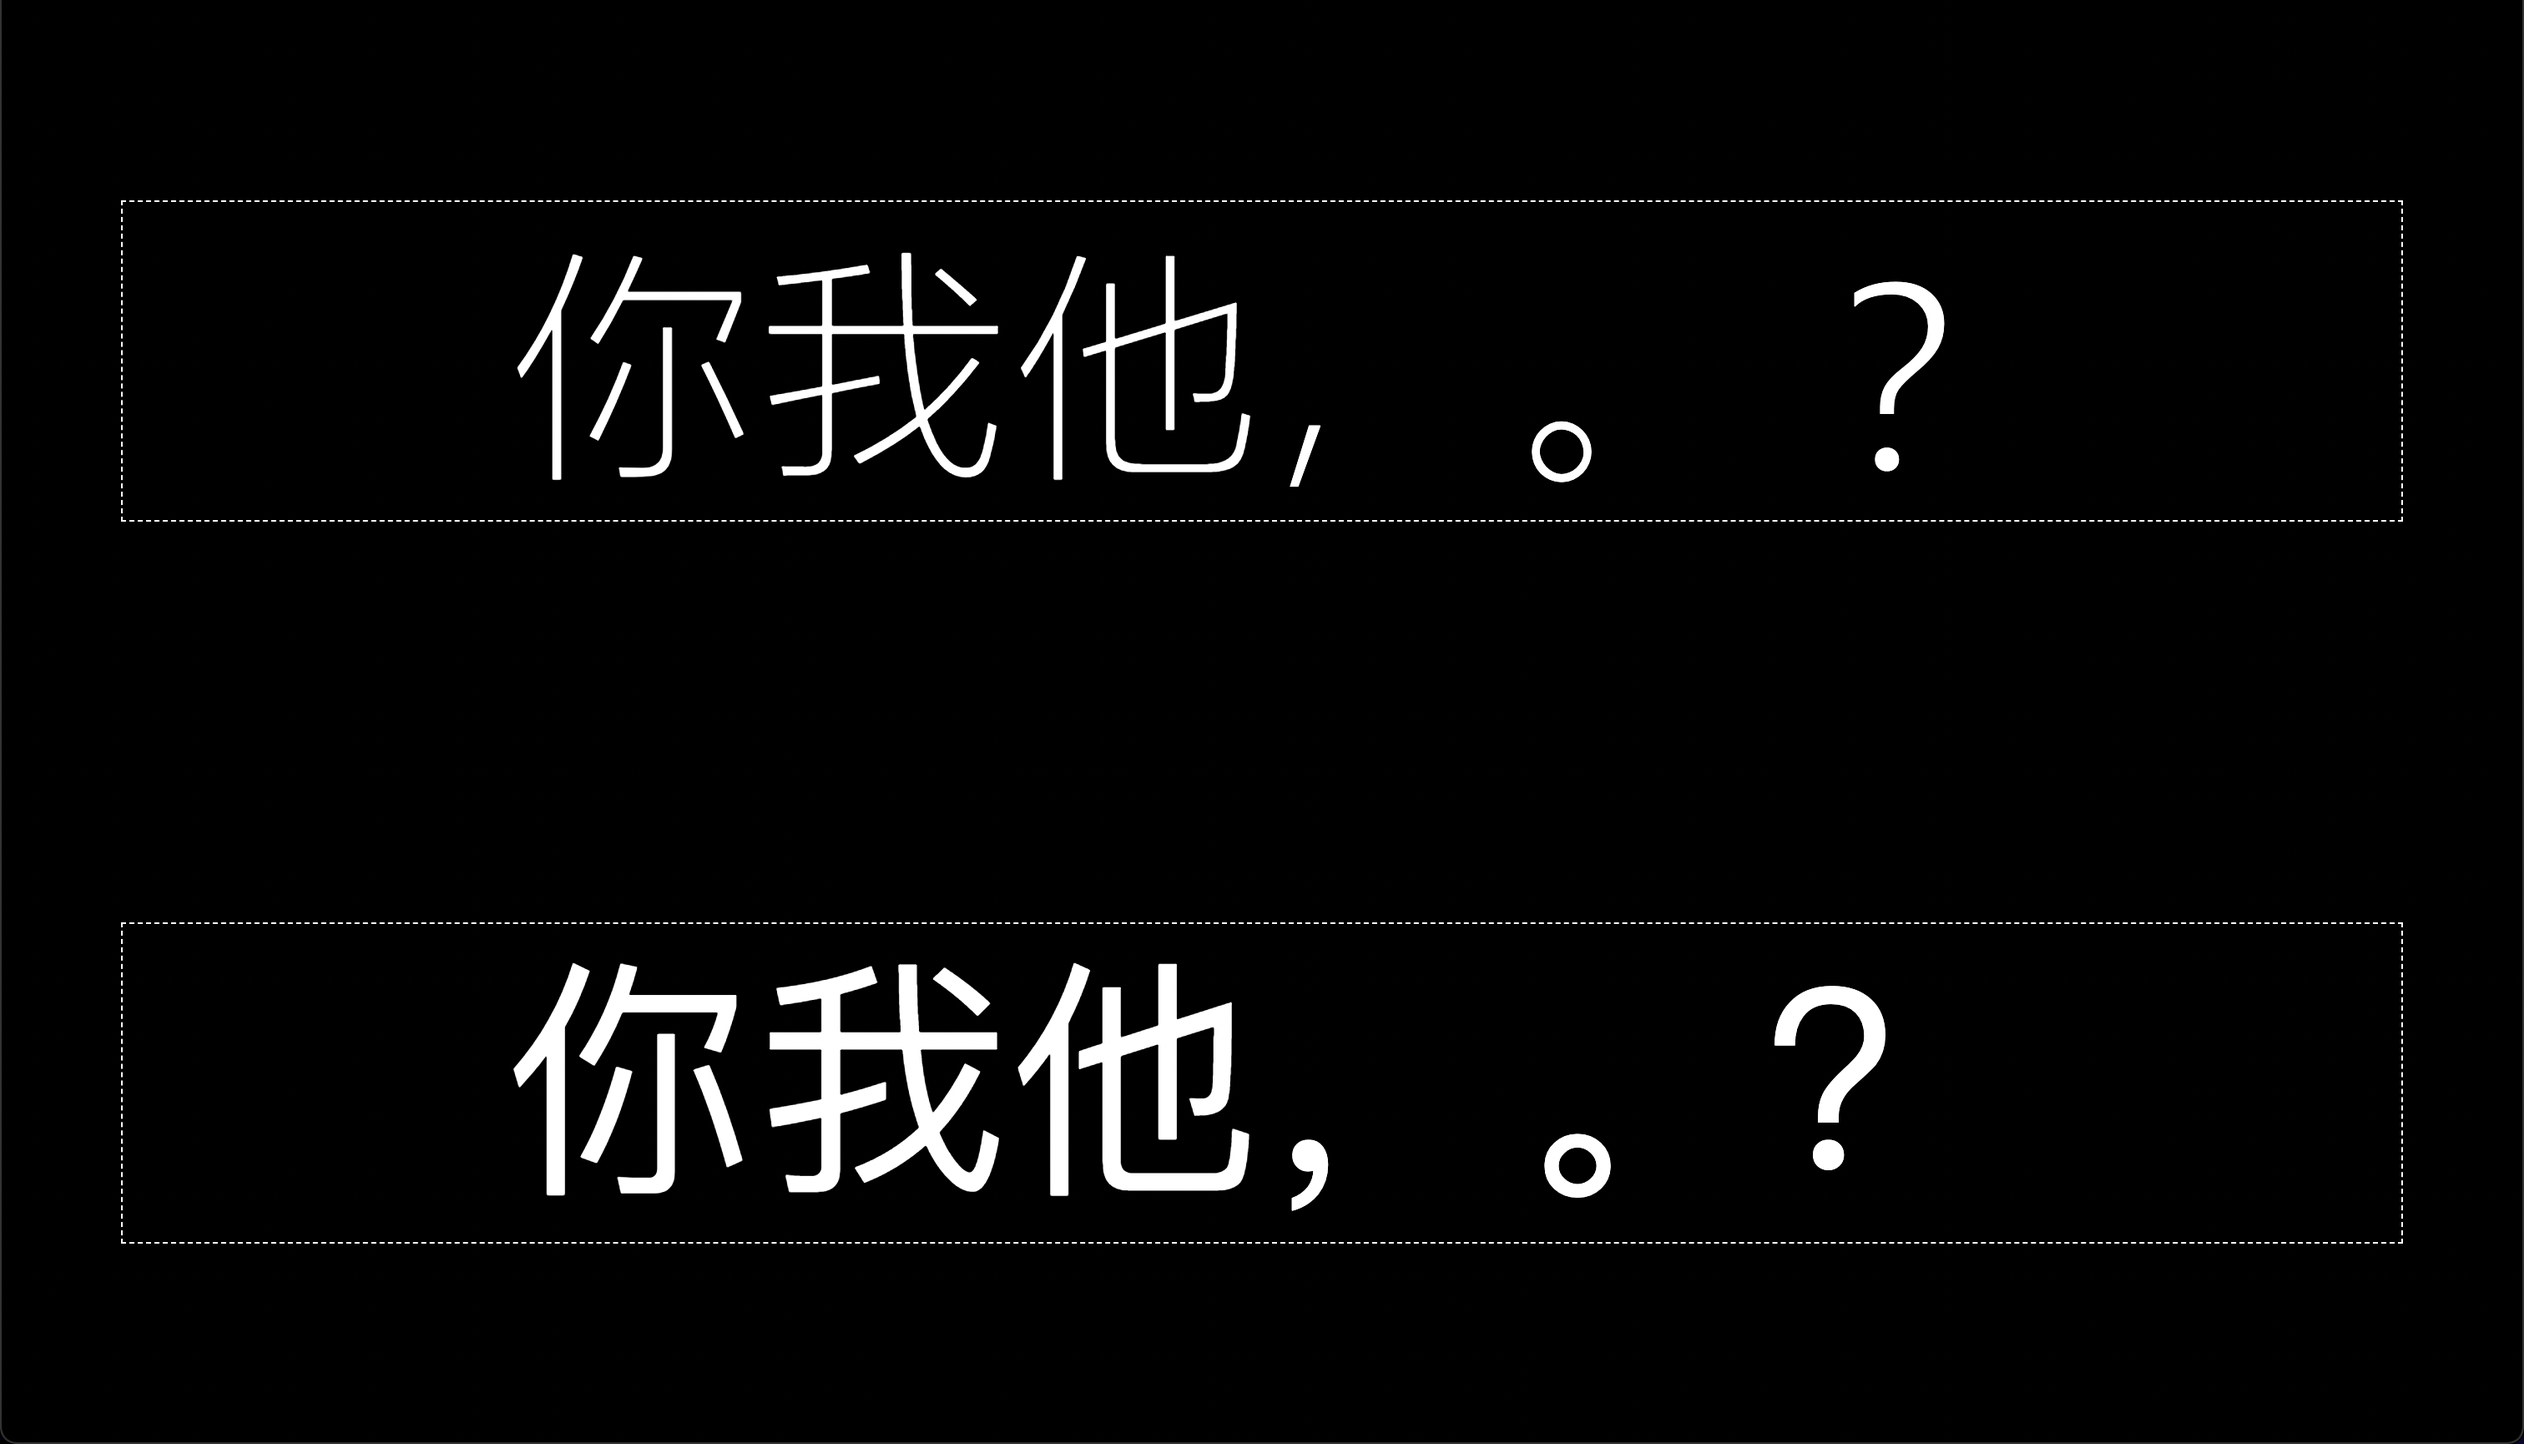
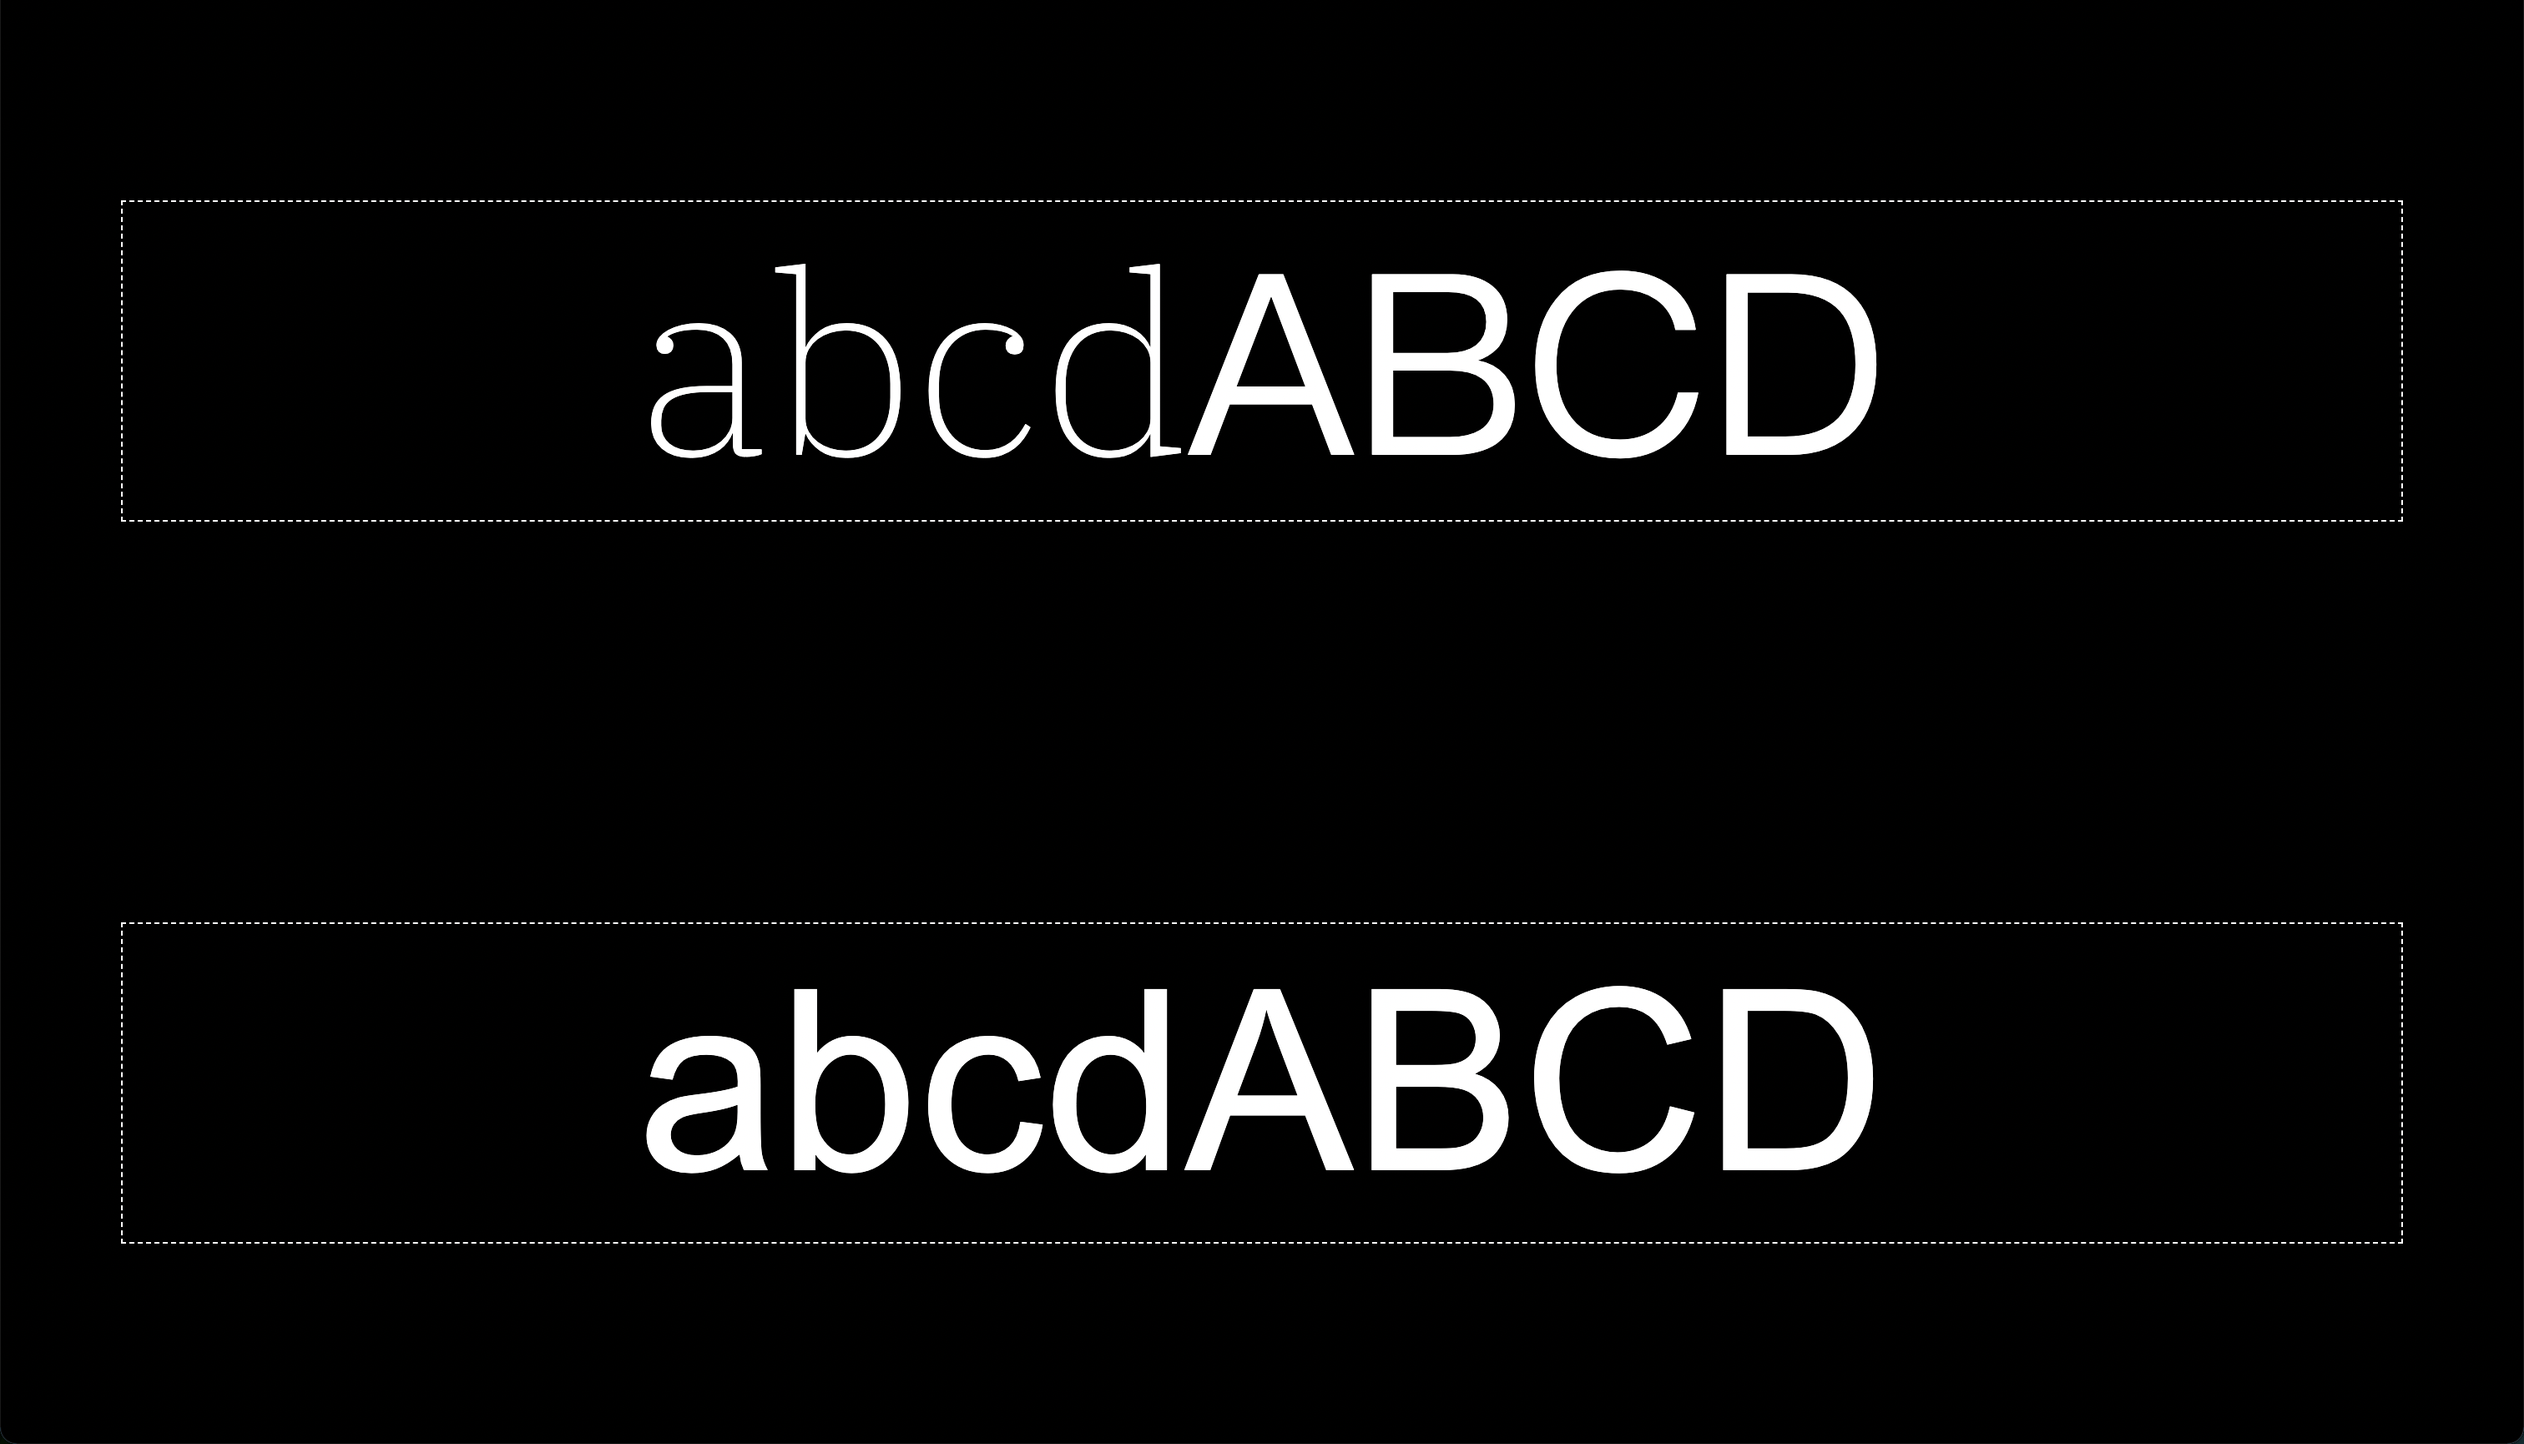
u

Changed region(s): [[0.1865, 0.6555, 0.746, 0.8428], [0.1865, 0.1873, 0.7771, 0.3434], [0.0, 0.0, 1.0, 1.0]]

diff --git a/script/index.js b/script/index.js
@@ -1,9 +1,9 @@
 const refineFont = require( "./refineFont" );
 
-filterEnglishFont();
-filterChineseFont();
+refineEnglishFontFile();
+refineChineseFontFile();
 
-function filterEnglishFont() {
+function refineEnglishFontFile() {
 
     const characters = "abcd1234,.?";
     const path_1 = "./static/font/full/IBMPlexSerif-ExtraLight.ttf";
@@ -11,13 +11,13 @@ function filterEnglishFont() {
 
     refineFont( characters, path_1, path_2 ).then( response => {
 
-        response && console.log( "👌English font." );
+        response && console.log( "🟢 English font file had been refined." );
 
     } );
 
 }
 
-function filterChineseFont() {
+function refineChineseFontFile() {
 
     const characters = "你我他，。？";
     const path_1 = "./static/font/full/NotoSansSC-Thin.ttf";
@@ -25,7 +25,7 @@ function filterChineseFont() {
 
     refineFont( characters, path_1, path_2 ).then( response => {
 
-        response && console.log( "👌Chinese font." );
+        response && console.log( "🟢 Chinese font file had been refined." );
 
     } );
 
